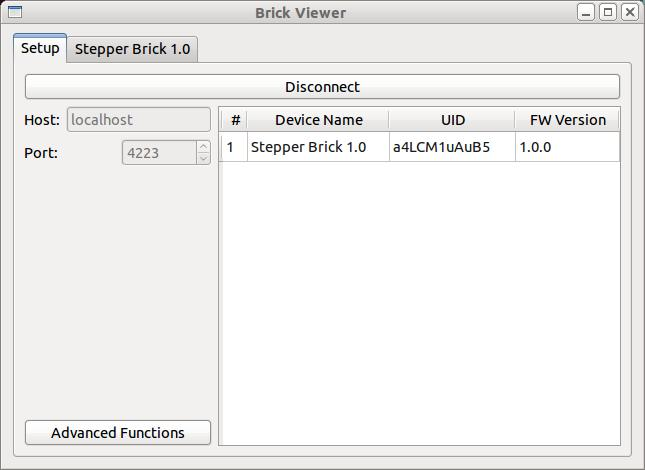
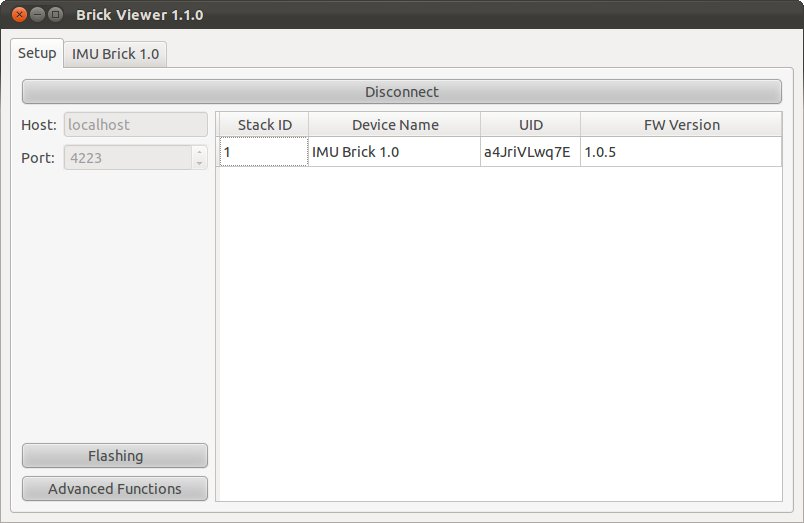
Document brickv flashing support

Changed region(s): [[0.0, 0.0, 1.0, 1.0]]

diff --git a/source/Software/Brickv.rst b/source/Software/Brickv.rst
@@ -88,7 +88,7 @@ or in the console with::
 
 To install Brick Viewer from the console use the following::
 
- sudo apt-get install python python-qt4 python-qwt5-qt4 python-matplotlib python-scipy python-opengl python-numpy python-qt4-gl
+ sudo apt-get install python python-qt4 python-qt4-gl python-qwt5-qt4 python-opengl
  sudo dpkg -i brickv_latest.deb
 
 To install Brick Viewer from source, download the source from `here <https://github.com/Tinkerforge/brickv>`__ and install the dependencies:
@@ -96,10 +96,7 @@ To install Brick Viewer from source, download the source from `here <https://git
 * python-qt4 
 * python-qt4-gl
 * python-qwt5-qt4
-* python-matplotlib
-* python-scipy
 * python-opengl
-* python-numpy
 
 On Debian based distributions you can do that as shown above, on other
 distribution you have to search for and install the equivalent packages.
@@ -112,7 +109,7 @@ brickv/src/brickv/ and start with::
 .. note::
  
  Unfortunately Debian has at the time of writing this tutorial problems with
- the python-qwt5-qt4 in wheezy. If you use Debian wheezy and you can't
+ the python-qwt5-qt4 in Wheezy. If you use Debian Wheezy and you can't
  find python-qwt5-qt4 in the repository, you have to install it from sid::
 
   echo 'APT::Default-Release "testing";' >> /etc/apt/apt.conf
@@ -155,13 +152,16 @@ network. Enter the IP (localhost if you started the Brick Daemon on the
 same PC). Press "connect". Now you can go through the tabs at the top
 and test your Bricks and Bricklets.
 
-.. image:: /Images/Screenshots/brickv_setup_tab.jpg
+.. image:: /Images/Screenshots/brickv_setup_tab_small.jpg
    :scale: 100 %
-   :alt: Brickv (ADC Calibration)
+   :alt: Brickv (Setup Tab)
    :align: center
+   :target: ../_images/Screenshots/brickv_setup_tab.jpg
 
-If you click on advanced functions, you can calibrate the ADCs and
-flash plugins to Bricks (see below).
+If you click on "Flashing" you can flash firmwares and plugins onto Bricks and
+Bricklets. If you click on "Advanced Functions" you can calibrate the ADCs of
+Bricks (see below).
+
 
 .. _brickv_adc_calibration:
 
@@ -181,12 +181,13 @@ For the calibration you need one of the potentiometer Bricklets (Rotary Poti
 or Linear Poti). Connect it to a Brick and click on "Advanced Functions" in
 the Setup tab of Brick Viewer:
 
-.. image:: /Images/Screenshots/brickv_advanced_functions_calibrate.jpg
+.. image:: /Images/Screenshots/brickv_advanced_functions_calibrate_small.jpg
    :scale: 100 %
    :alt: Brickv (ADC Calibration)
    :align: center
+   :target: ../_images/Screenshots/brickv_advanced_functions_calibrate.jpg
 
-Choose the port your poti is connected to (A-D). 
+Choose the port your poti is connected to (A-D).
 Turn your poti completely to the left and press "Calibrate", then turn
 your poti completely to right and press "Calibrate" again. If your ADC
 wasn't calibrated well the gain and offset values should be different then
@@ -196,30 +197,83 @@ then one of the values has to change (after that you have to recalibrate,
 of course).
 
 
+.. _brickv_flash_firmware:
+
+Brick Firmware Flashing
+^^^^^^^^^^^^^^^^^^^^^^^
+
+Flashing of Brick firmwares can be done with Brick Viewer sind version 1.1.0.
+The latest firmwares will be downloaded automatically and can be found
+:ref:`here <downloads_firmwares_plugins>` too.
+
+First bring the Brick into the bootloader modus. Press and hold the "Erase"
+button of the Brick and connect it via USB to your PC.
+The blue LED should be off. Now the Brick should be in the bootloader
+(based on your operating system some sort of Atmel device could be detected).
+
+Start the Brick Viewer and click "Flashing":
+
+.. image:: /Images/Screenshots/brickv_flashing_firmware_small.jpg
+   :scale: 100 %
+   :alt: Brickv (Brick Firmware)
+   :align: center
+   :target: ../_images/Screenshots/brickv_flashing_firmware.jpg
+
+A Brick in bootloader mode should show up as serial port.
+The "Serial Port" dropdown box shows all detected serial ports. If no port is
+listed try clicking "Refresh". If still no serial port shows up ensure that
+your Brick is in bootloader mode and that it is correctly recognized by your
+operating system.
+
+Select the correct serial port, select the firmware for your Brick and click
+"Save". Now the latest firmware will be downloaded and written to the Brick,
+then read back again and verified to be correctly written.
+A message box will pop up to inform you about the result.
+If the flash process failed, check if you have selected the correct serial port.
+
+Instead of letting the Brick Viewer download the latest firmware you can also
+select "Custom..." from the dropdown box and specify a local file via the
+"Browse..." button.
+
+.. note::
+ On Windows you might need to install Atmel driver "atm6124_cdc.inf" from the
+ drivers subdirectory in the Brick Viewer installation directory.
+
+ If you have an old Linux kernel you might need to install the kernel driver
+ from `here <http://www.embedded-it.de/en/microcontroller/eNet-sam7X.php>`__
+ (at the bottom: "SAM-BA Linux USB driver")
+
+
 .. _brickv_flash_plugin:
 
 Bricklet Plugin Flashing
 ^^^^^^^^^^^^^^^^^^^^^^^^
 
-Flashing of Bricklet plugins into the EEPROM of the Bricklet is also
-possible in the advanced functions window. The latest plugins can
-be found :ref:`here <downloads_firmwares_plugins>`.
+Flashing of Bricklet plugins into the EEPROM of the Bricklet is
+possible in the flashing window. The latest plugins will be downloaded
+automatically and can be found :ref:`here <downloads_firmwares_plugins>` too.
 
 Connect a Brick (any Brick will do) via USB, start the Brick Viewer
-and, click "Connect" and then click "Advanced Functions":
+and, click "Connect" and then click "Flashing":
 
-.. image:: /Images/Screenshots/brickv_advanced_functions_plugin.jpg
+.. image:: /Images/Screenshots/brickv_flashing_plugin_small.jpg
    :scale: 100 %
-   :alt: Brickv (Bricklet Plugin)
+   :alt: Brickv (Brick Plugin)
    :align: center
+   :target: ../_images/Screenshots/brickv_flashing_plugin.jpg
 
-Now connect the Bricklet that is to be flashed to the Brick. Select
-the corresponding Brick and Port, click "Browse.." and select the firmware
-you want to flash. If you now press "Save", the plugin will be written
+Now connect the Bricklet that is to be flashed to the Brick and select
+the corresponding Brick and Port.
+Select the type of you Bricklet from the dropdown box. If you press "Save" now,
+the latest plugin will be downloaded and written
 to the EEPROM, then read again from the EEPROM and verified to be
-correctly written. A "Check OK" or "Check Failed" window will pop up.
-If the check failed, check if you selected the correct port and if the
-Bricklet is connected properly. 
+correctly written. A message box will pop up to inform you about the result.
+If the flash process failed, check if you selected the correct port and if the
+Bricklet is connected properly.
+
+Instead of letting the Brick Viewer download the latest plugin you can also
+select "Custom..." from the dropdown box and specify a local file via the
+"Browse..." button.
 
 You can also read the UID currently written on the Bricklet and set a
 new one. Note that the UID has to be in Base58 encoding

diff --git a/source/Downloads.rst b/source/Downloads.rst
@@ -33,12 +33,13 @@ Tools
 
  **Brick Daemon** | `deb <http://download.tinkerforge.com/tools/brickd/linux/brickd_linux_latest.deb>`__, rpm*, `dmg <http://download.tinkerforge.com/tools/brickd/macos/brickd_latest.dmg>`__, `exe <http://download.tinkerforge.com/tools/brickd/windows/brickd_windows_latest.exe>`__, `src <https://github.com/Tinkerforge/brickd>`__ | For Linux (.deb based, .rpm based), Mac OS, Windows and Source Code. [:ref:`Installation Instructions <brickd>`]
  **Brick Viewer** | `deb <http://download.tinkerforge.com/tools/brickv/linux/brickv_linux_latest.deb>`__, rpm*, `dmg <http://download.tinkerforge.com/tools/brickv/macos/brickv_latest.dmg>`__, `exe <http://download.tinkerforge.com/tools/brickv/windows/brickv_windows_latest.exe>`__, `src <https://github.com/Tinkerforge/brickv>`__ | For Linux (.deb based, .rpm based), Mac OS, Windows and Source Code. [:ref:`Installation Instructions <brickv>`]
- **SAM-BA** | `Windows <http://www.atmel.com/dyn/resources/prod_documents/sam-ba_2.11.exe>`__, `Linux <http://www.atmel.com/dyn/resources/prod_documents/sam-ba_2.11.zip>`__ | For Linux and Windows, SAM-BA for Mac OS not yet available. [:ref:`Installation Instructions <flash_firmware_on_brick>`]
- **SAM-BA Files** | `Download <http://download.tinkerforge.com/tools/samba/samba_files_latest.zip>`__ | Contains bootloader for Bricks, has to be unziped inside SAM-BA. [:ref:`Installation Instructions <flash_firmware_on_brick>`]
 
-You will need the Brick Daemon if you want to use any Bricks and Bricklets. The Brick Viewer is for testing purposes and not absolutely necessary. If you want to flash new firmwares onto Bricks, you need to download SAM-BA from the Atmel website and extract the SAM-BA Files into the SAM-BA folder. For flashing Bricklet Plugins, the Brick Viewer can be used. 
+You will need the Brick Daemon if you want to use any Bricks and Bricklets.
+The Brick Viewer is for testing purposes and flashing new firmwares and plugins
+onto Bricks and Bricklets.
 
-If you use a linux distribution that does not use .debs or .rpms, you can install the Brick Viewer and the Brick Daemon from source.
+If you use a Linux distribution that does not use .debs or .rpms, you can
+install the Brick Viewer and the Brick Daemon from source.
 
 \*: Coming soon
 

diff --git a/source/Software/Firmwares_And_Plugins.rst b/source/Software/Firmwares_And_Plugins.rst
@@ -49,47 +49,14 @@ Build the firmware::
 
 Thats it. The build/ folder now contains the newly compiled firmware.
 
+
 .. _flash_firmware_on_brick:
 
 Flash firmware on a Brick
 -------------------------
 
-To flash a Brick firmware onto a Brick, you need to install SAM-BA
-and the SAM-BA Files from :ref:`here <downloads>`.
-
-Extract the SAM-BA Files into the SAM-BA directory, it adds two new
-bootloaders::
-
- at91sam3s2-brick
- at91sam3s4-brick
-
-Then bring the Brick into the bootloader modus. Press the "Erase" button of 
-the Brick and connect it afterwards via USB to your PC.
-The blue LED should be off. Now the Brick should be in the bootloader
-(based on your operating system some sort of Atmel device could be detected).
-
-Start SAM-BA, choose your connection and choose "at91sam3s4-brick" for the 
-Master Brick and "at91sam3s2-brick" for all other Bricks.
-Click connect, after this the blue LED should be on. 
-
-Select your firmware file (e.g.: "brick_servo_firmware_latest.bin")
-as "Send File Name" and click send.
-The newest version can be downloaded from :ref:`here <downloads_firmwares_plugins>`.
-
-Answer "Yes" to lock regions. At the end select "Boot from Flash (GPNVM1)"
-script and execute it. Power cycle the Brick and it should start with the 
-new firmware.
-
-.. note::
- If you have problems using SAM-BA on Linux, you should take a look at
- `this site <http://www.at91.com/linux4sam/bin/view/Linux4SAM/SoftwareTools>`__.
- It contains tips for older Linux versions and help for various
- distributions.
-
- Also, if you have an old Linux kernel you may need to install the kernel
- driver from 
- `here <http://www.embedded-it.de/en/microcontroller/eNet-sam7X.php>`__
- (at the bottom: "SAM-BA Linux USB driver ")
+See :ref:`brickv_flash_firmware` in :ref:`brickv` documentation for more
+information.
 
 
 Building a Bricklet plugin
@@ -142,5 +109,5 @@ Thats it. The build/ folder now contains the newly compiled plugin.
 Flash plugin on a Bricklet
 --------------------------
 
-See :ref:`brickv_flash_plugin` in :ref:`brickv` documentation for more 
+See :ref:`brickv_flash_plugin` in :ref:`brickv` documentation for more
 information.

diff --git a/source/Timeline.rst b/source/Timeline.rst
@@ -17,7 +17,7 @@ We will update the timeline as soon as we have better estimates or a firm date.
    "21", "PHP bindings", "`done <http://www.tinkerforge.com/doc/index.html#bricks>`__"
    "22", "Ruby bindings", "`done <http://www.tinkerforge.com/doc/index.html#bricks>`__"
    "22", "iOS support", "`done <http://www.tinkerforge.com/doc/Software/API_Bindings.html#c-c-ios>`__"
-   "23", "Brick flashing support for Brick Viewer (No SAM-BA needed anymore)", "development"
+   "23", "Brick flashing support for Brick Viewer (No SAM-BA needed anymore)", "`done <http://www.tinkerforge.com/doc/Software/Brickv.html#brick-firmware-flashing>`__"
    "25", "RS485 Extension", "unstable"
    "27", "New programming language binding (probably Delphi)"
    "29", "New programming language binding"
